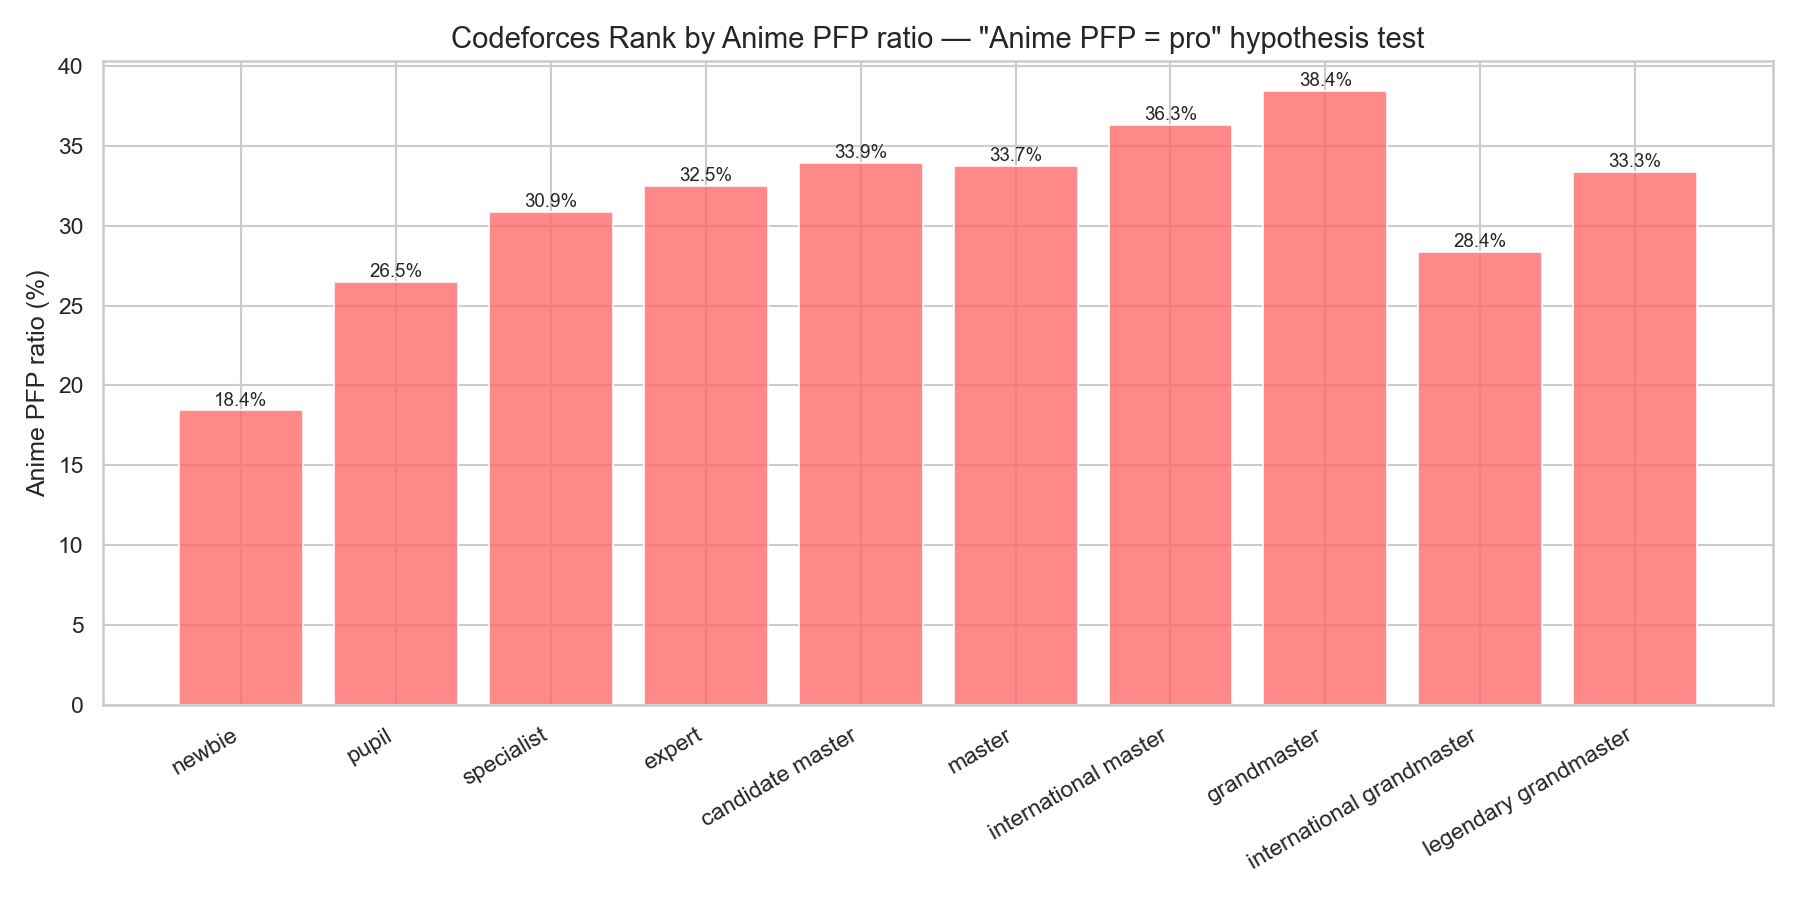
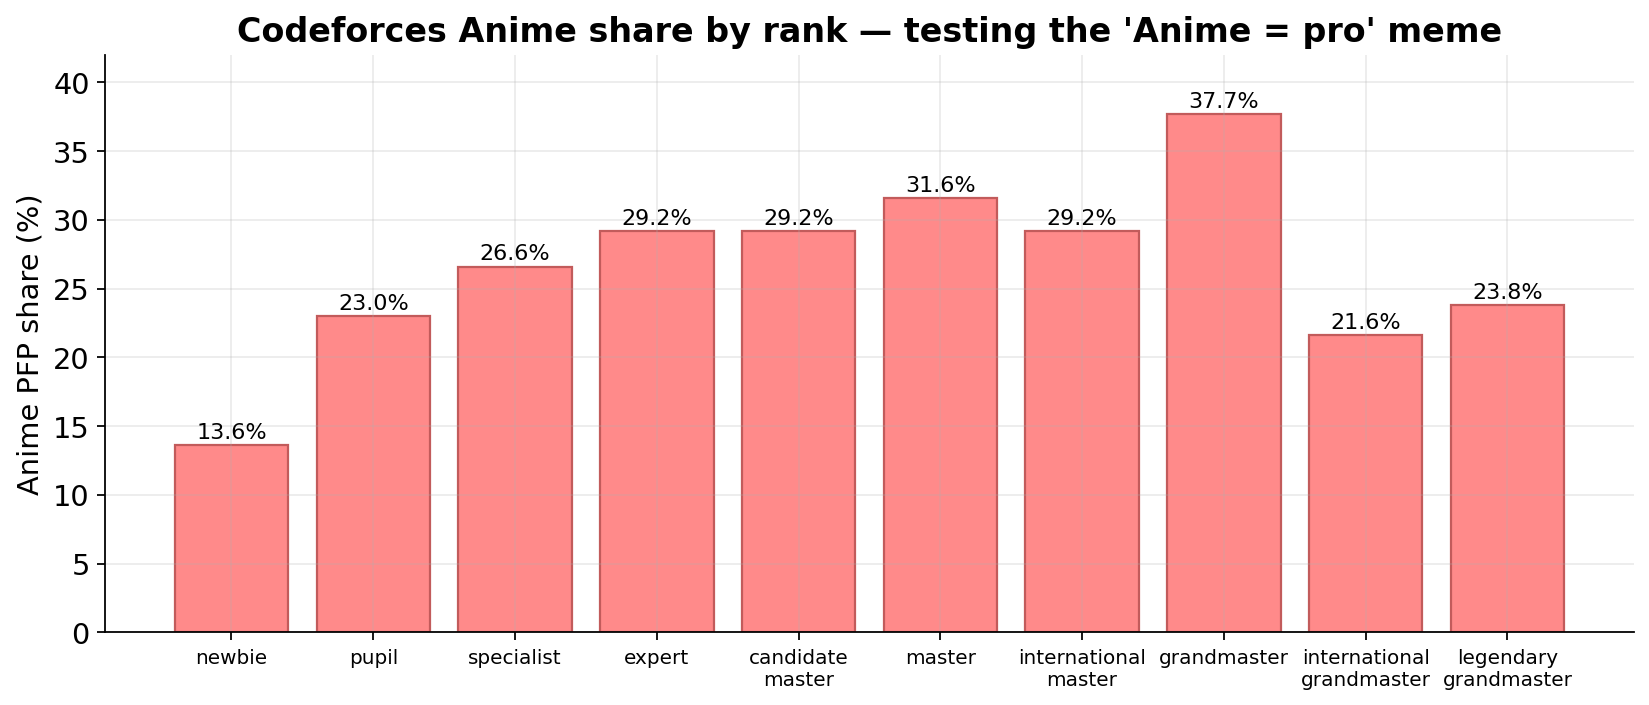
docs: refresh figures and embed in README

diff --git a/README.md b/README.md
@@ -10,6 +10,8 @@ We analyzed **45,715 GitHub users** and **48,611 Codeforces users**, classified 
 
 **Short answer**: No, once you compare apples to apples. The "Anime PFP ⇒ higher activity" effect that shows up in raw Anime-vs-NonAnime comparisons is almost entirely the *Default-vs-everyone-else* gap. Once you exclude Default-PFP users, **Anime users are statistically indistinguishable from Human / Other users on GitHub `total_contributions`** (δ ≈ −0.03, negligible). On **Codeforces `rating`**, however, once we CLIP-verify the CF Anime labels too (removing YOLO false-positive photos), Anime shows a **small but robust edge over Human** (δ = +0.18) — so *activity* shows no difference but *skill rating* shows a small one. Both conclusions hold even after 20% adversarial classification noise (see [Sensitivity](#classification-error-sensitivity-does-the-headline-survive-20-mislabeling)).
 
+![Significance vs effect size — same p<0.001, opposite conclusions](figures/significance_vs_effect_size.png)
+
 ## Research Questions
 
 | RQ | Platform | Question | This study's answer |
@@ -33,6 +35,8 @@ Codeforces *skill rating*.
 
 ### Headline — GitHub `total_contributions` by 4-cat (n = 45,715)
 
+![Median total_contributions by category — Default dominates the gap](figures/total_contributions_by_cat.png)
+
 `total_contributions` = commits + PRs + issues + reviews in the last year (GraphQL).
 
 | Category | n | median | mean | p75 |
@@ -45,6 +49,8 @@ Codeforces *skill rating*.
 **Kruskal–Wallis 4-group**: H = 9523.0, p < 1e-300 ***
 
 ### Pairwise Cliff's δ (GitHub `total_contributions`)
+
+![Pairwise Cliff's δ heatmap — only Default loses decisively](figures/effect_size_heatmap.png)
 
 | Pair | δ | size | p |
 |---|---:|---|---:|
@@ -67,7 +73,11 @@ Read this carefully:
   activity" — survives only in the trivial sense that "having any PFP at
   all" correlates with higher activity than "having the default Gravatar."
 
+![Anime vs Human Cliff's δ across 9 GitHub activity metrics — all negligible](figures/anime_vs_human_9metrics.png)
+
 ### PFP distribution
+
+![PFP share by category — GitHub vs Codeforces](figures/pfp_distribution.png)
 
 | Platform | n | Anime | Human | Other | Default |
 |----------|------:|------:|------:|------:|--------:|
@@ -79,6 +89,8 @@ abstract icons typical for competitive-programming profiles). Real-face
 Human PFPs are rare on CF (8.7%) compared to GitHub (34.6%).
 
 ### Region breakdown — median `total_contributions` (GitHub)
+
+![Anime vs Human δ by region — all negligible](figures/region_anime_vs_human_delta.png)
 
 | Region | n | Anime | Human | Other | Default |
 |---|---:|---:|---:|---:|---:|
@@ -103,7 +115,9 @@ See `data/processed/analysis_total_contrib.md` for full per-region Cliff's δ
 tables and CF cross-platform context (regenerate with
 `python scripts/analyze_total_contrib.py`).
 
-### RQ2 — Codeforces (Anime share by rank, unchanged)
+### RQ2 — Codeforces (Anime share by rank)
+
+![Codeforces rank vs Anime share — rises monotonically through grandmaster](figures/cf_anime_by_rank.png)
 
 | Rank | n | Anime % |
 |------|---:|-------:|
@@ -126,6 +140,8 @@ here purely as a directional cross-check.
 
 ### CF rating × 4-cat — a small Anime edge (where GitHub had none)
 
+![Median CF rating by category — Anime sits above Human/Other after CLIP verification](figures/cf_rating_by_cat.png)
+
 | Category | n | median rating | mean | p75 |
 |---|---:|---:|---:|---:|
 | Anime   |  8,670 | **1,204** | 1,218 | 1,447 |
@@ -141,6 +157,8 @@ pattern diverges from GitHub. Caveat: part of the gap is a composition effect
 (low-rated mislabels joining Human dragged its median down from 1,131 to 1,064).
 
 ### Classification-error sensitivity (does the headline survive ~20% mislabeling?)
+
+![Anime vs Human δ across 5 sensitivity scenarios — stable across both platforms](figures/sensitivity.png)
 
 `scripts/sensitivity_analysis.py` re-runs the headline δ under five
 robustness scenarios. Short version: **yes, the conclusion is stable** —
@@ -201,6 +219,8 @@ out in §4 of `analysis_sensitivity.md` and listed under Future Work.
 
 ### Classification Pipeline
 
+![YOLO confidence threshold tuning — Macro-F1 vs conf](figures/conf_threshold_tuning.png)
+
 Profile images are classified into four categories using **YOLOv8 anime-face
 detection** followed by **CLIP zero-shot verification** (anime vs real human):
 
@@ -212,6 +232,8 @@ detection** followed by **CLIP zero-shot verification** (anime vs real human):
 | **Other** | Exclusion | YOLO did not detect a face — logos, scenery, abstract art, anything without a recognizable face |
 
 ### Sampling Strategy
+
+![PFP distribution by sampling group — strong confounder (Cramér's V = 0.318)](figures/sampling_group_distribution.png)
 
 GitHub users are collected via 8 stratified groups (~1,700 per group, configurable) to ensure diversity:
 